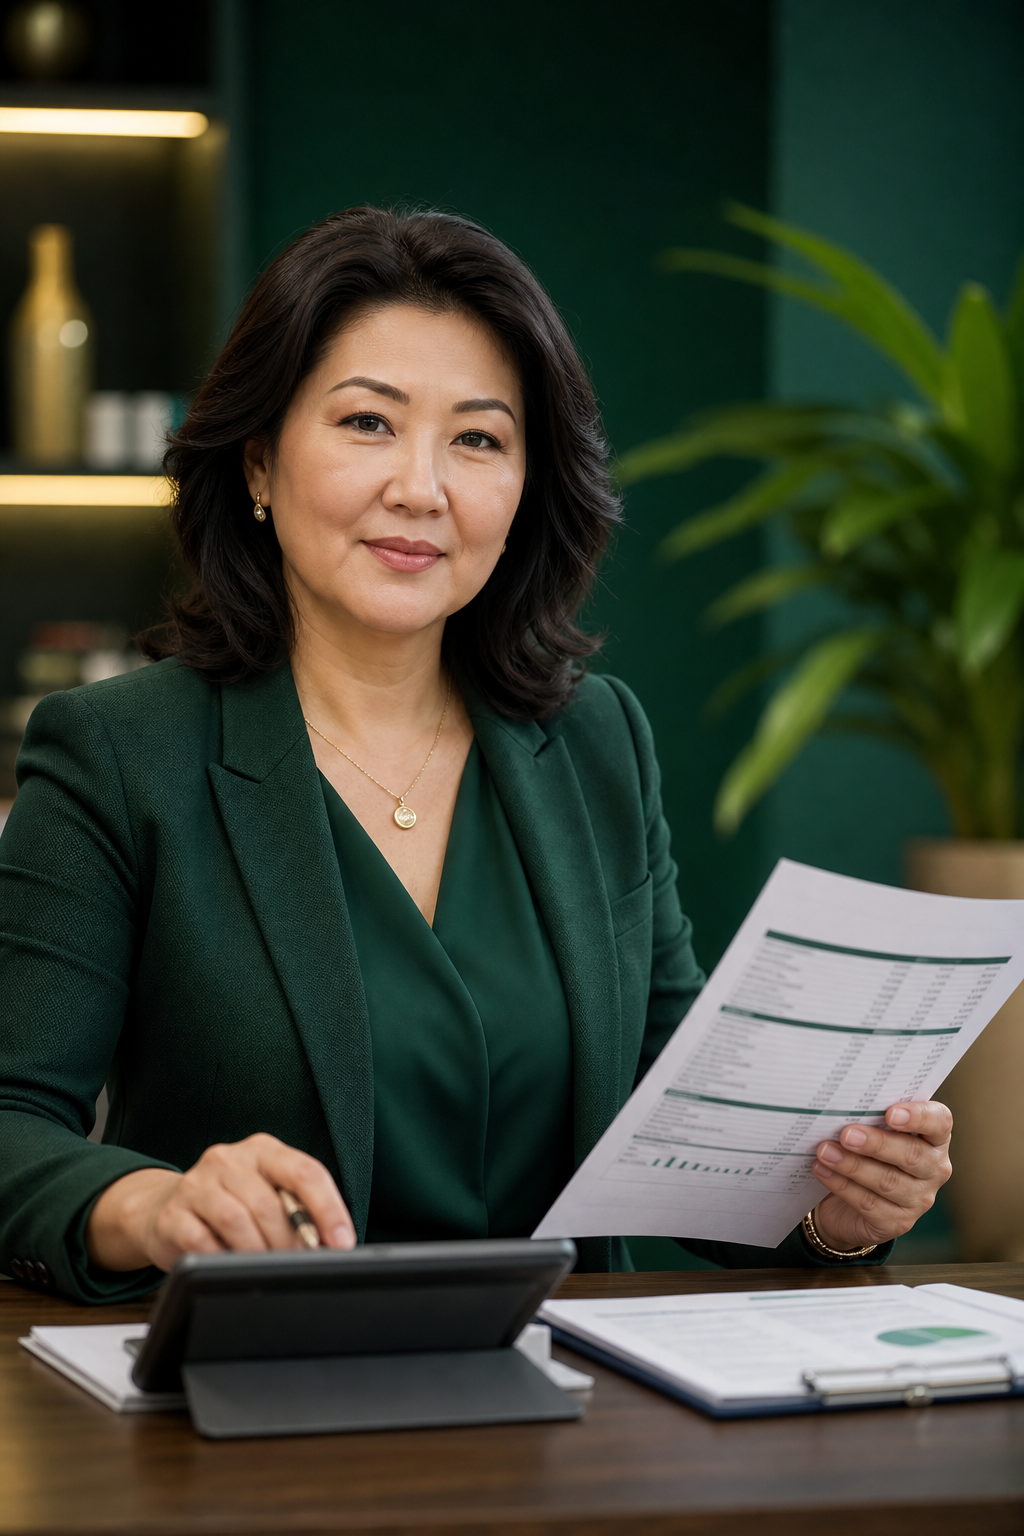
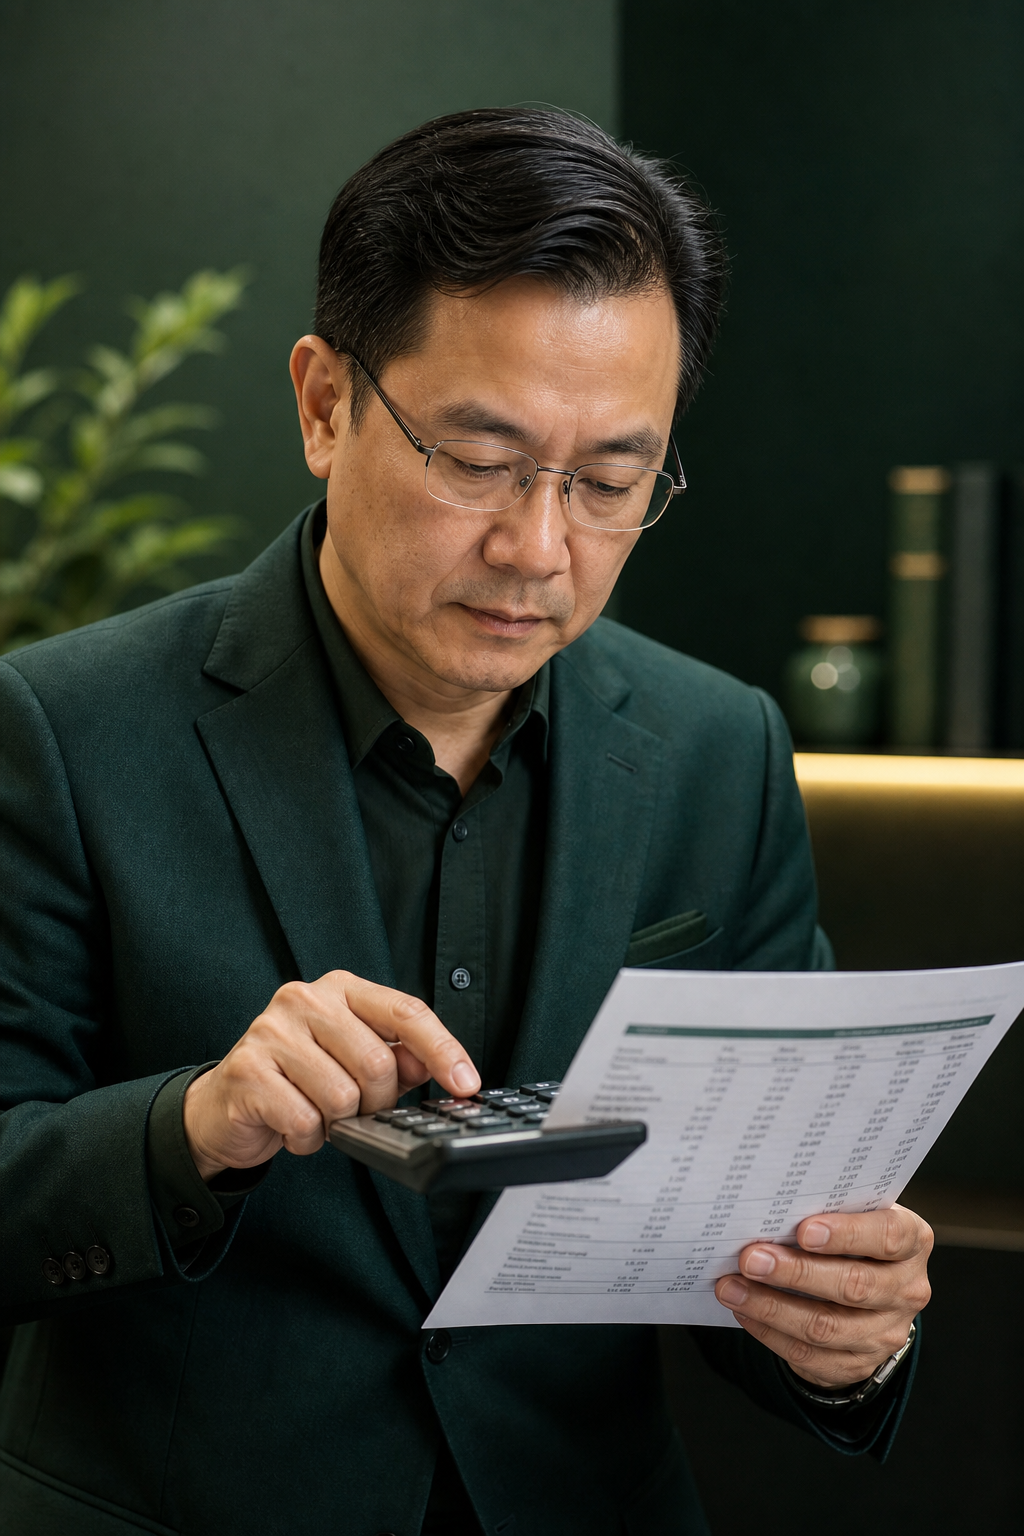
fix(tenderapps): align overview role callouts

diff --git a/apps/tender-apps/src/logistics-costing.css b/apps/tender-apps/src/logistics-costing.css
@@ -318,12 +318,12 @@
 
 /* Overview manifesto: raw inputs → deterministic transformation → reviewed product */
 .cost-product-manifesto { padding-block: clamp(58px, 6vw, 96px) 26px; }
-.cost-product-heading { align-items: end; display: grid; gap: clamp(20px, 3vw, 42px); grid-template-columns: minmax(0, 1fr) minmax(340px, 410px); margin-bottom: clamp(38px, 4vw, 62px); }
+.cost-product-heading { align-items: start; display: grid; gap: clamp(20px, 3vw, 42px); grid-template-columns: minmax(0, 1fr) minmax(340px, 410px); margin-bottom: clamp(38px, 4vw, 62px); }
 .cost-product-heading-copy { min-width: 0; }
 .cost-product-heading h1 { font-size: clamp(51px, 5.8vw, 91px); font-weight: 580; letter-spacing: -.073em; line-height: .91; margin: 0; }
 .cost-product-heading h1 em { color: var(--costing-green); font-style: normal; }
 .cost-product-heading-copy > p:not(.costing-eyebrow) { color: #607068; font-size: var(--type-body); line-height: 1.55; margin: 24px 0 0; max-width: 920px; }
-.cost-role-callout { --agent-role-accent: var(--costing-signal); --agent-role-ink: var(--costing-ink); --agent-role-label: var(--costing-green); --agent-role-surface-from: #f0faef; --agent-role-surface-to: #dff2e5; }
+.cost-role-callout { --agent-role-accent: var(--costing-signal); --agent-role-ink: var(--costing-ink); --agent-role-label: var(--costing-green); --agent-role-surface-from: #f0faef; --agent-role-surface-to: #dff2e5; margin-top: 42px; }
 .cost-product-story { align-items: stretch; display: grid; gap: clamp(16px, 1.5vw, 24px); grid-template-columns: minmax(250px, .62fr) minmax(96px, .18fr) minmax(650px, 1.55fr); }
 .raw-cost-inputs { background: #eaf0ec; border: 1px solid #cad8d0; border-radius: 19px; display: flex; flex-direction: column; min-height: 600px; overflow: hidden; padding: 22px; }
 .raw-cost-inputs > header { align-items: center; display: flex; gap: 11px; }
@@ -1052,7 +1052,7 @@
   .client-welcome-hero { gap: 32px; padding-block: 55px 40px; }
   .cost-product-manifesto { padding-top: 46px; }
   .cost-product-heading { align-items: start; grid-template-columns: 1fr; }
-  .cost-role-callout { max-width: 560px; }
+  .cost-role-callout { margin-top: 0; max-width: 560px; }
   .cost-product-heading h1 { font-size: clamp(43px, 10.5vw, 67px); }
   .cost-product-story { grid-template-columns: 1fr; }
   .raw-cost-inputs { min-height: 520px; }

diff --git a/apps/tender-apps/src/balance-sheet-app.tsx b/apps/tender-apps/src/balance-sheet-app.tsx
@@ -676,8 +676,8 @@ function BalanceSheetWorkspace() {
             <AgentRoleCallout
               className="bs-role-callout"
               eyebrow="CLIENT FINANCIAL EVIDENCE WORKSPACE"
-              imageAlt="Finance analyst reviewing a balance sheet and its calculations"
-              imagePosition="50% 22%"
+              imageAlt="Finance analyst calculating and reconciling balance-sheet totals"
+              imagePosition="50% 42%"
               imageSrc="/tenderbalance/illustrations/tenderbalance-finance-reviewer.png"
               subtitle="Turn raw financial statements into a traceable digital balance sheet"
               tags={["#Digitize", "#Reconcile", "#Trace"]}

diff --git a/apps/tender-apps/src/client-product-manifesto.css b/apps/tender-apps/src/client-product-manifesto.css
@@ -5,7 +5,7 @@
 }
 
 .client-product-manifesto__header {
-  align-items: end;
+  align-items: start;
   display: grid;
   gap: clamp(20px, 3vw, 42px);
   grid-template-columns: minmax(0, 1fr) minmax(340px, 410px);
@@ -84,6 +84,7 @@
   }
 
   .client-product-manifesto__header .agent-role-callout {
+    margin-top: 0;
     max-width: 560px;
   }
 

diff --git a/apps/tender-apps/src/balance-sheet.css b/apps/tender-apps/src/balance-sheet.css
@@ -27,6 +27,7 @@ button, input, select { font: inherit; }
   --agent-role-label: var(--bs-green);
   --agent-role-surface-from: #effaf3;
   --agent-role-surface-to: #dcf1e5;
+  margin-top: 50px;
 }
 
 .bs-client-nav {
